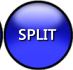
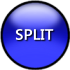
added split button

diff --git a/blackjack.py b/blackjack.py
@@ -11,6 +11,7 @@ width=int(1200)
 height=int(675)
 HitButton=pygame.image.load(r"Hit Button.png")
 StandButton=pygame.image.load(r"Stand Button.png")
+SplitButton=pygame.image.load(r"splitButton.png")
 Button_width=HitButton.get_width()
 Button_height=HitButton.get_height()
 
@@ -44,6 +45,7 @@ screen = pygame.display.set_mode((width, height))
 screen.fill(poker_green)
 GlobMoving=False
 GlobSplitting=False
+sameCard=False
 
 def create_deck():
     func_list=[]
@@ -312,7 +314,7 @@ def find_average(list):
     return sum//len(list)
 
 def gameloop():
-    global gameover, GlobMoving, Cards, gameoverCounter, HitButton, StandButton, OpponentCards, round, Card, OpponentCard, Standed, old_round, msg1, msg2, ended, GlobSplitting 
+    global gameover, GlobMoving, Cards, gameoverCounter, HitButton, StandButton, OpponentCards, round, Card, OpponentCard, Standed, old_round, msg1, msg2, ended, GlobSplitting, sameCard 
     while True:
         # end_time=time.perf_counter()
         # FPSlist.append(int((end_time-start_time)**-1))
@@ -327,13 +329,18 @@ def gameloop():
             Card(2, True)
         elif round == 200:
             OpponentCard(2, True)
+            if Cards[list(Cards.keys())[0]].card[0] == Cards[list(Cards.keys())[1]].card[0]:
+                sameCard=True
         if round <= 200:
             round += 1
+
         pygame.display.flip()
         screen.fill(poker_green)
-        screen.blit(Deck.image, Deck.end_pos)
+        screen.blit(Deck.image, Deck.end_pos)        
         screen.blit(HitButton, (Deck.Rect.right+5, Deck.Rect.top))
         screen.blit(StandButton, (Deck.Rect.right+5, Deck.Rect.top+75))
+        if sameCard:
+            screen.blit(SplitButton, (Deck.Rect.right+5, Deck.Rect.top+150))
 
         if Standed:
             Opponent_Show()
